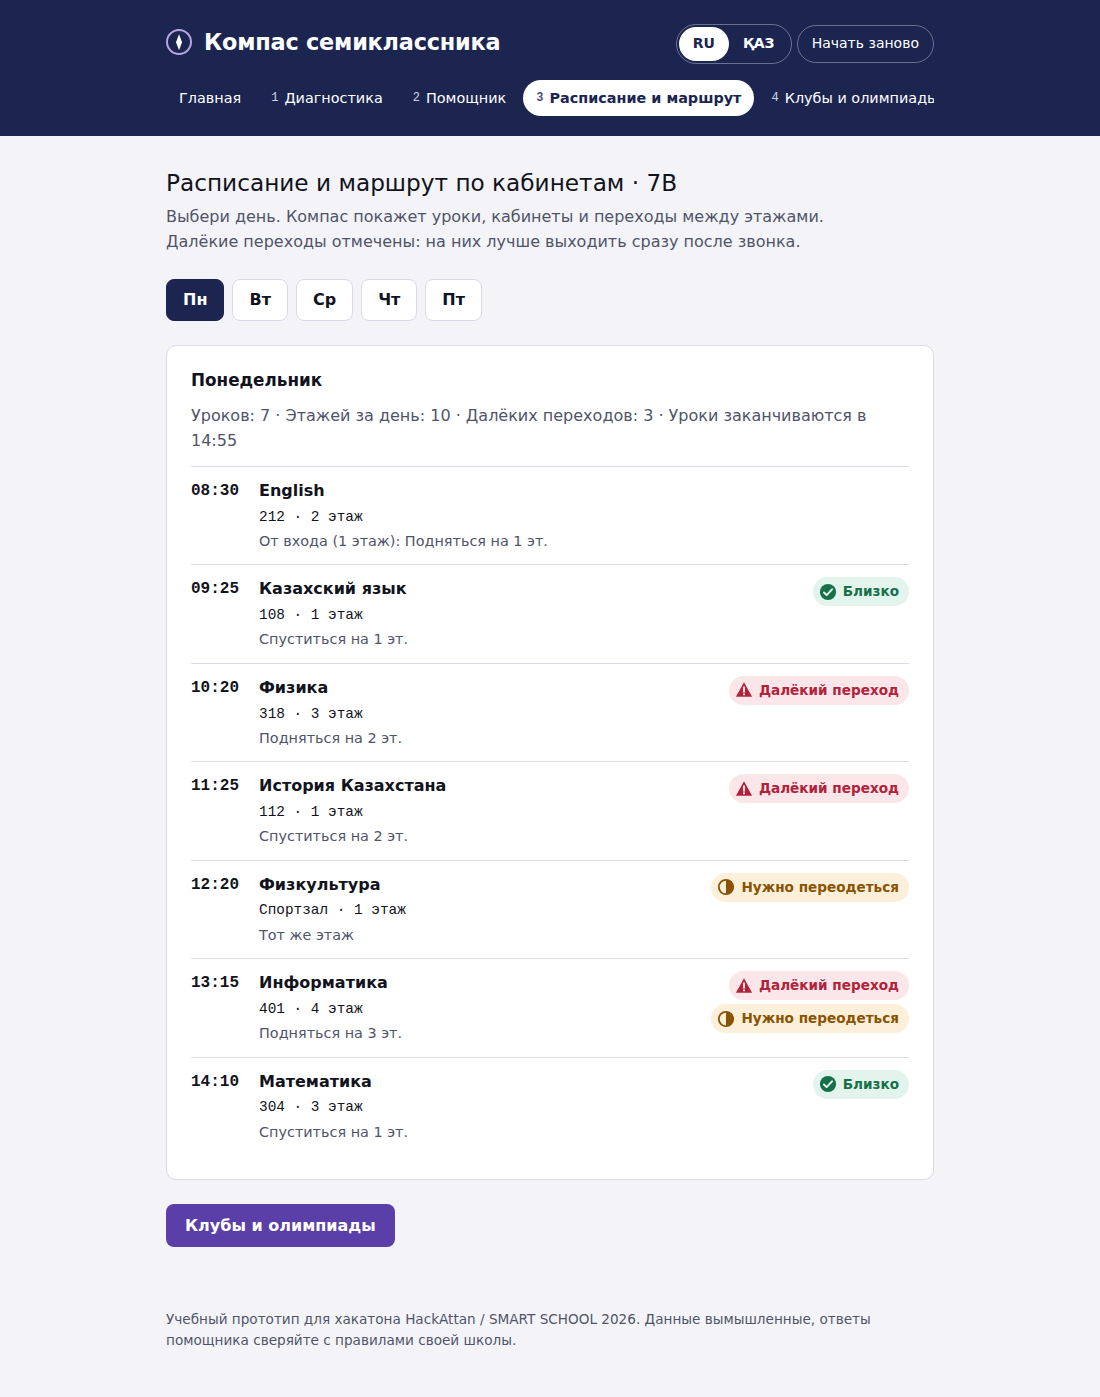
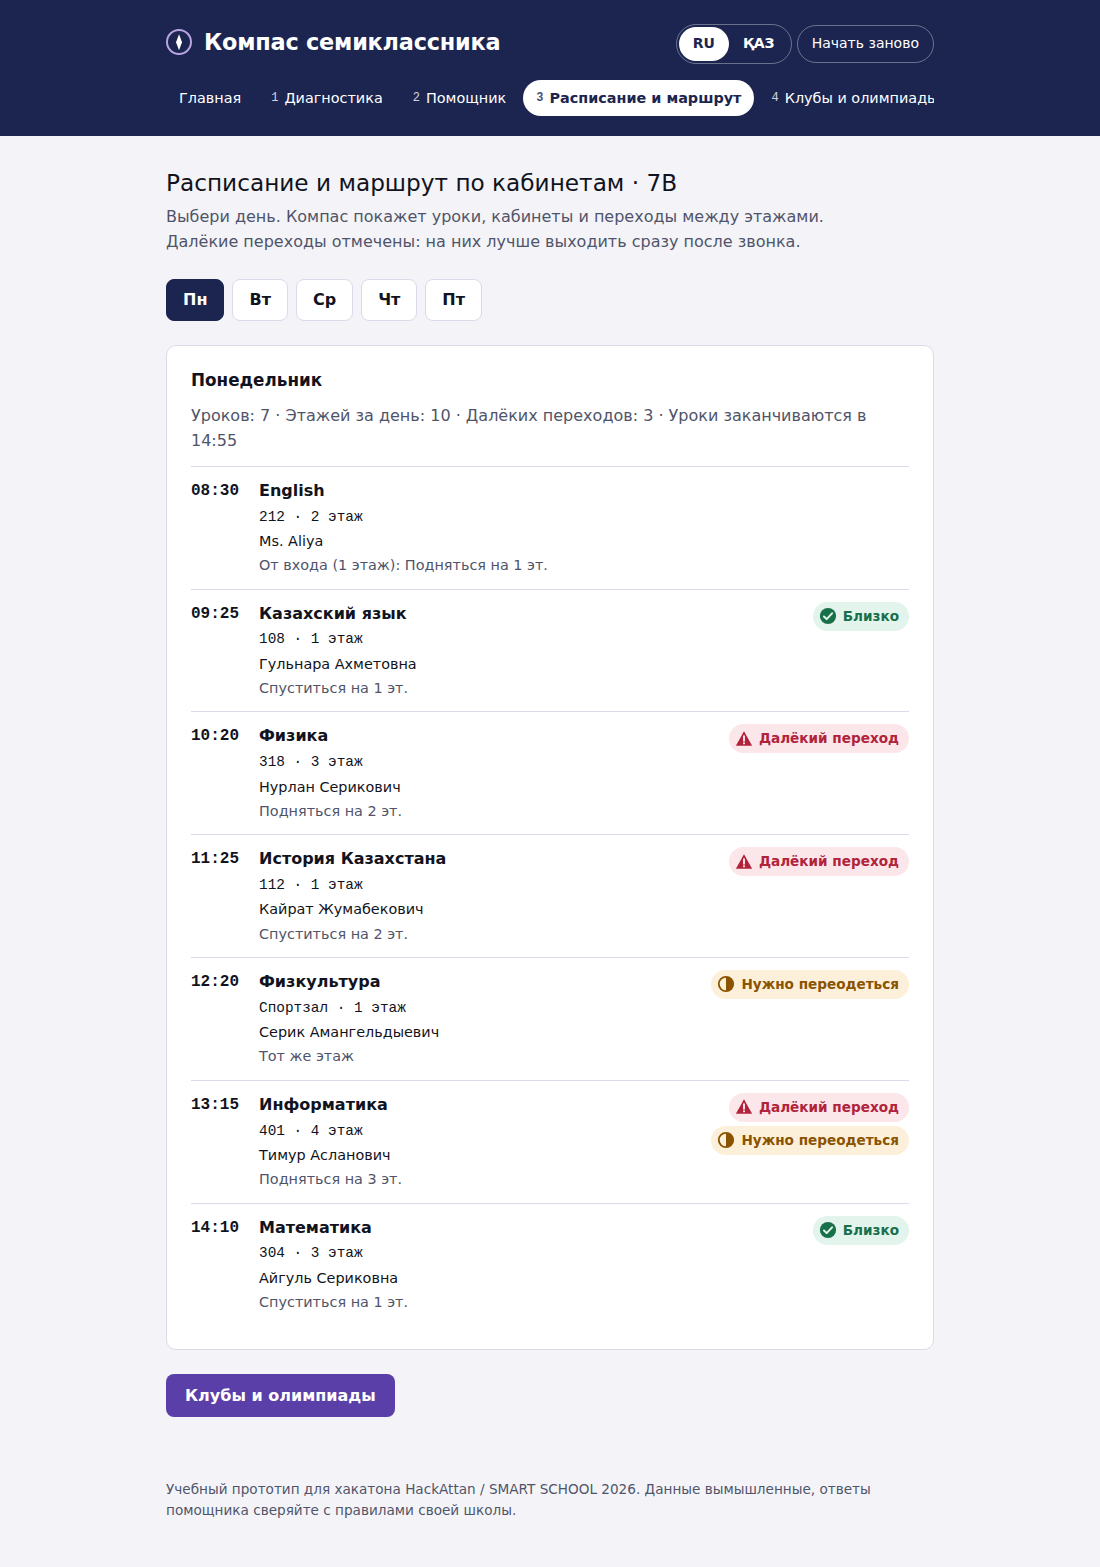
Show student's day with teachers and curator right after registration
Claude-Session: https://claude.ai/code/session_019CwR6hvYNn6jJ4x8P3ywka

diff --git a/compass/data-school.js b/compass/data-school.js
@@ -38,6 +38,23 @@ const SUBJECTS = {
   pe: { ru: 'Физкультура', kz: 'Дене шынықтыру', room: 'Спортзал', floor: 1, gym: true }
 };
 
+// Учителя (вымышленные). Индекс 0: для 7A и 7B, индекс 1: для 7C и 7D.
+const TEACHERS = {
+  math: ['Айгуль Сериковна', 'Ержан Болатович'],
+  kaz: ['Гульнара Ахметовна', 'Сауле Каировна'],
+  rus: ['Елена Викторовна', 'Динара Маратовна'],
+  eng: ['Ms. Aliya', 'Mr. Daniyar'],
+  phys: ['Нурлан Серикович', 'Асель Муратовна'],
+  chem: ['Жанар Ериковна', 'Бахыт Канатович'],
+  bio: ['Салтанат Нуржановна', 'Мария Олеговна'],
+  geo: ['Арман Бекович', 'Лаура Садыковна'],
+  hist: ['Кайрат Жумабекович', 'Айжан Толегеновна'],
+  it: ['Тимур Асланович', 'Индира Бериковна'],
+  pe: ['Серик Амангельдыевич', 'Бауыржан Ерланович']
+};
+// Кураторы классов (вымышленные)
+const CURATORS = { '7A': 'Меруерт Абаевна', '7B': 'Жанна Сериковна', '7C': 'Руслан Кайратович', '7D': 'Галия Нурлановна' };
+
 // Звонки: 7 уроков по 45 минут
 const BELLS = [
   ['08:30', '09:15'], ['09:25', '10:10'], ['10:20', '11:05'], ['11:25', '12:10'],
@@ -265,7 +282,15 @@ const UI_SCHOOL = {
     meetMentor: 'Встреча с ментором: {name}',
     saDeadline: 'до СОР',
     minutes: 'мин',
-    planNeedProfile: 'Сначала заполни профиль.'
+    planNeedProfile: 'Сначала заполни профиль.',
+    myDayToday: 'Твой день сегодня, {day}',
+    myDayNext: 'Ближайший учебный день: {day}',
+    myDayIntro: 'Расписание, кабинеты и учителя подставлены автоматически по твоему классу.',
+    curator: 'Куратор класса',
+    teacher: 'Учитель',
+    roomCol: 'Кабинет · этаж',
+    timeCol: 'Время',
+    fullRoute: 'Весь маршрут на неделю'
   },
   kz: {
     helloBig: 'Сәлем! Привет!',
@@ -395,7 +420,15 @@ const UI_SCHOOL = {
     meetMentor: 'Ментормен кездесу: {name}',
     saDeadline: 'БЖБ-ға дейін',
     minutes: 'мин',
-    planNeedProfile: 'Алдымен профильді толтыр.'
+    planNeedProfile: 'Алдымен профильді толтыр.',
+    myDayToday: 'Бүгінгі күнің, {day}',
+    myDayNext: 'Жақын оқу күні: {day}',
+    myDayIntro: 'Кесте, кабинеттер және мұғалімдер сыныбыңа қарай автоматты түрде қойылды.',
+    curator: 'Сынып кураторы',
+    teacher: 'Мұғалім',
+    roomCol: 'Кабинет · қабат',
+    timeCol: 'Уақыт',
+    fullRoute: 'Апталық толық бағыт'
   }
 };
 
@@ -404,5 +437,5 @@ Object.assign(UI.ru, UI_SCHOOL.ru);
 Object.assign(UI.kz, UI_SCHOOL.kz);
 
 if (typeof module !== 'undefined' && module.exports) {
-  module.exports = { CLASSES, INTERESTS, SUBJECTS, BELLS, BASE_WEEK, DAY_NAMES, DAY_SHORT, ACTIVITIES, MAX_CLUBS, MENTORS, PLANNER, UI_SCHOOL };
+  module.exports = { CLASSES, INTERESTS, SUBJECTS, TEACHERS, CURATORS, BELLS, BASE_WEEK, DAY_NAMES, DAY_SHORT, ACTIVITIES, MAX_CLUBS, MENTORS, PLANNER, UI_SCHOOL };
 }

diff --git a/compass/app.js b/compass/app.js
@@ -261,6 +261,7 @@ function renderHome() {
       h('h2', { id: 'home-h', class: 'hello' }, tf('hello', { name: p.name })),
       h('p', {}, tf('helloSub', { cls: p.cls })),
       h('button', { type: 'button', class: 'link-btn', onclick: () => { state.draft = Object.assign({}, p); go('register'); } }, t('editProfile'))),
+    renderMyDay(),
     h('ol', { class: 'sections' }, SECTIONS.map((s, i) => {
       const st = sectionStatus(s.id);
       const isNext = s.id === next.id;
@@ -273,6 +274,29 @@ function renderHome() {
         h('button', { type: 'button', class: 'btn ' + (isNext ? 'btn-primary' : 'btn-secondary'), onclick: () => go(s.id) }, t('open')));
     }))
   );
+}
+
+// «Твой день»: сразу после регистрации показываем уроки, кабинеты и
+// учителей по классу ученика, без ручного ввода расписания
+function renderMyDay() {
+  const now = new Date();
+  const day = nextSchoolDay(now);
+  const dow = weekday(day);
+  const route = buildRoute(state.profile.cls, dow);
+  const isToday = day.getDate() === now.getDate();
+  const dayName = DAY_NAMES[L()][dow] + ', ' + fmtDate(day);
+  return h('section', { class: 'box stack my-day', 'aria-labelledby': 'myday-h' },
+    h('h3', { id: 'myday-h' }, tf(isToday ? 'myDayToday' : 'myDayNext', { day: dayName })),
+    h('p', { class: 'muted small flush' }, t('myDayIntro')),
+    h('p', { class: 'flush' }, h('b', {}, t('curator') + ': '), CURATORS[state.profile.cls]),
+    h('div', { class: 'table-scroll' }, h('table', { class: 'day-table' },
+      h('thead', {}, h('tr', {}, h('th', {}, t('timeCol')), h('th', {}, t('tLessons')), h('th', {}, t('roomCol')), h('th', {}, t('teacher')))),
+      h('tbody', {}, route.steps.map((s) => h('tr', {},
+        h('td', { class: 'mono' }, s.start),
+        h('td', {}, SUBJECTS[s.subject][L()]),
+        h('td', { class: 'mono' }, (s.gym ? (L() === 'kz' ? 'Спорт зал' : s.room) : s.room) + ' · ' + s.floor),
+        h('td', {}, s.teacher)))))),
+    h('button', { type: 'button', class: 'link-btn', onclick: () => go('route') }, t('fullRoute')));
 }
 
 // ---------------------------------------------------------------------
@@ -519,7 +543,8 @@ function renderRoute() {
         h('span', { class: 'r-time' }, s.start),
         h('div', { class: 'r-body' },
           h('span', { class: 'r-subj' }, SUBJECTS[s.subject][L()]),
-          h('span', { class: 'r-room' }, (s.room === 'Спортзал' && L() === 'kz' ? 'Спорт зал' : s.room) + ' · ' + tf('rFloor', { n: s.floor })),
+          h('span', { class: 'r-room' }, (s.gym && L() === 'kz' ? 'Спорт зал' : s.room) + ' · ' + tf('rFloor', { n: s.floor })),
+          h('span', { class: 'r-teacher' }, s.teacher),
           h('span', { class: 'r-move' }, moveText(s))),
         h('div', { class: 'r-flags' },
           s.far ? chip('attention', t('rFar')) : null,

diff --git a/compass/logic-school.js b/compass/logic-school.js
@@ -84,6 +84,19 @@ function lessonsFor(cls, day) {
   return base.map((_, i) => base[(i + shift) % base.length]);
 }
 
+// Учитель предмета для класса: 7A и 7B -> первый, 7C и 7D -> второй
+function teacherFor(cls, subject) {
+  const list = TEACHERS[subject] || [];
+  return list[CLASSES.indexOf(cls) < 2 ? 0 : 1] || '';
+}
+
+// Ближайший учебный день: сегодня, если будни; иначе понедельник
+function nextSchoolDay(date) {
+  let d = new Date(date.getFullYear(), date.getMonth(), date.getDate());
+  while (weekday(d) > 4) d = addDays(d, 1);
+  return d;
+}
+
 // Маршрут: для каждого урока считаем переход от предыдущего кабинета.
 // Далёкий переход = разница 2 этажа и больше (за 10 минут перемены это тяжело).
 function buildRoute(cls, day) {
@@ -105,7 +118,7 @@ function buildRoute(cls, day) {
     if (isFar && prev) far += 1;
     prev = s;
     return {
-      n: i + 1, subject: key, room: s.room, floor: s.floor,
+      n: i + 1, subject: key, room: s.room, floor: s.floor, teacher: teacherFor(cls, key),
       start: BELLS[i][0], end: BELLS[i][1],
       move, floorsDiff: Math.abs(diff), far: isFar && i > 0, gym, first: i === 0
     };
@@ -352,7 +365,7 @@ function buildWeekPlan(input) {
 if (typeof module !== 'undefined' && module.exports) {
   module.exports = {
     toMin, fmtMin, sleepHours, addDays, weekday, fmtDate,
-    validateProfile, lessonsFor, buildRoute, recommendClubs, checkActivityAdd,
+    validateProfile, lessonsFor, teacherFor, nextSchoolDay, buildRoute, recommendClubs, checkActivityAdd,
     matchMentors, buildWeekPlan
   };
 }

diff --git a/compass/tests/school.test.js b/compass/tests/school.test.js
@@ -83,3 +83,13 @@ test('Планер: при коротком сне предлагает врем
   assert.strictEqual(plan.sleep.ok, false);
   assert.strictEqual(plan.sleep.suggestBed, '22:30');
 });
+
+test('Автоподстановка: по классу сразу известны учителя, куратор и ближайший учебный день', () => {
+  assert.strictEqual(S.teacherFor('7B', 'math'), 'Айгуль Сериковна');
+  assert.strictEqual(S.teacherFor('7C', 'math'), 'Ержан Болатович');
+  assert.strictEqual(CURATORS['7B'], 'Жанна Сериковна');
+  const r = S.buildRoute('7B', 0);
+  assert.ok(r.steps.every((s) => s.teacher.length > 0));
+  assert.strictEqual(S.weekday(S.nextSchoolDay(new Date(2026, 8, 26))), 0); // суббота -> понедельник
+  assert.strictEqual(S.nextSchoolDay(new Date(2026, 8, 24)).getDate(), 24);  // четверг -> сегодня
+});

diff --git a/compass/style.css b/compass/style.css
@@ -338,6 +338,12 @@ details.review summary { cursor: pointer; font-weight: 600; }
 .r-subj { font-weight: 700; }
 .r-room { font-family: var(--font-mono); font-size: 0.9rem; }
 .r-move { font-size: 0.9rem; color: var(--text-2); }
+.r-teacher { font-size: 0.9rem; }
+.my-day { border-color: var(--lilac); }
+.day-table { width: 100%; border-collapse: collapse; font-size: 0.95rem; }
+.day-table th, .day-table td { text-align: left; padding: 8px 10px 8px 0; border-bottom: 1px solid var(--line); }
+.day-table th { font-size: 0.78rem; text-transform: uppercase; letter-spacing: 0.06em; color: var(--text-2); font-weight: 600; }
+.day-table td.mono { white-space: nowrap; font-variant-numeric: tabular-nums; }
 .r-flags { display: flex; flex-direction: column; gap: var(--s1); align-items: flex-end; }
 
 /* ---------- Клубы и менторы ---------- */

diff --git a/compass/TESTS.md b/compass/TESTS.md
@@ -3,7 +3,7 @@
 Дата прогона: 24.09.2026 (четверг). Сценарий прогнан целиком в браузере Chromium на файле
 `index.html`, так же, как на защите: приветствие → регистрация → диагностика → помощник →
 маршрут → клубы → ментор → план. Логика дополнительно проверена автотестами:
-`node --test tests/*.test.js` (результат: **12 из 12 пройдено**). Ошибок JavaScript при прогоне: нет.
+`node --test tests/*.test.js` (результат: **13 из 13 пройдено**). Ошибок JavaScript при прогоне: нет.
 
 ## 4 обязательных теста
 
@@ -20,6 +20,7 @@
 |---|---|---|
 | Добавить «Художественную студию» при выбранной «Робототехнике» (обе во вторник) | «Пересекается по времени с «Робототехника» (Вт 15:30–17:00).» | ✅ |
 | Вопрос вне базы: «есть ли в школе бассейн» | «Точного ответа в базе нет…», а в плане на пятницу: «Спроси у куратора: «есть ли в школе бассейн»» | ✅ |
+| Автоподстановка: регистрация «Данияр, 7C» | На главной сразу «Твой день сегодня, Четверг, 24.09», куратор Руслан Кайратович, 7 уроков с кабинетами и учителями (08:30 English, 212 · 2, Mr. Daniyar …) | ✅ |
 | Маршрут 7B, понедельник | 7 уроков, 10 этажей за день, 3 далёких перехода (например, Казахский 108 → Физика 318: «Подняться на 2 эт.», «Далёкий переход»); у физкультуры метка «Нужно переодеться» | ✅ |
 | Напоминания в плане | «СОР по математике через 6 дн. Слабых тем: 3.» и список дел на сегодня | ✅ |
 | Встреча с ментором не в день кружка | Алану удобен вторник, но во вторник Робототехника, поэтому встреча поставлена на пятницу | ✅ |

diff --git a/compass/README.md b/compass/README.md
@@ -10,7 +10,7 @@
 2. Открыть `index.html` двойным кликом (Chrome, Edge, Firefox). Интернет и установка не нужны.
    Если интернета нет, шрифты заменятся системными, на работу это не влияет.
 
-Автотесты логики (нужен Node.js): `node --test tests/*.test.js` (12 тестов)
+Автотесты логики (нужен Node.js): `node --test tests/*.test.js` (13 тестов)
 
 ## Три главные связанные функции
 
@@ -24,6 +24,7 @@
 
 | Раздел | Что делает | Где код |
 |---|---|---|
+| Автоподстановка | По классу сразу показывает «Твой день»: уроки, кабинеты, этажи, учителей и куратора (данные вымышленные) | `teacherFor`, `nextSchoolDay`, `renderMyDay` |
 | Регистрация | Имя, класс, интересы, интернат, режим сна. Валидация: пустое имя, цифры в имени, не выбран класс, 0 или больше 5 интересов, сон меньше 5 ч (ошибка) и меньше 8 ч (предупреждение) | `validateProfile` в `logic-school.js` |
 | Расписание и маршрут | Уроки класса на день, кабинет и этаж, переход между уроками, «далёкий переход» (2+ этажа), «нужно переодеться» (физкультура) | `lessonsFor`, `buildRoute` |
 | Клубы и олимпиады | Подбор по интересам (1 балл за совпавший интерес), дедлайн записи, лимит 2 кружка, проверка пересечения по времени | `recommendClubs`, `checkActivityAdd` |
